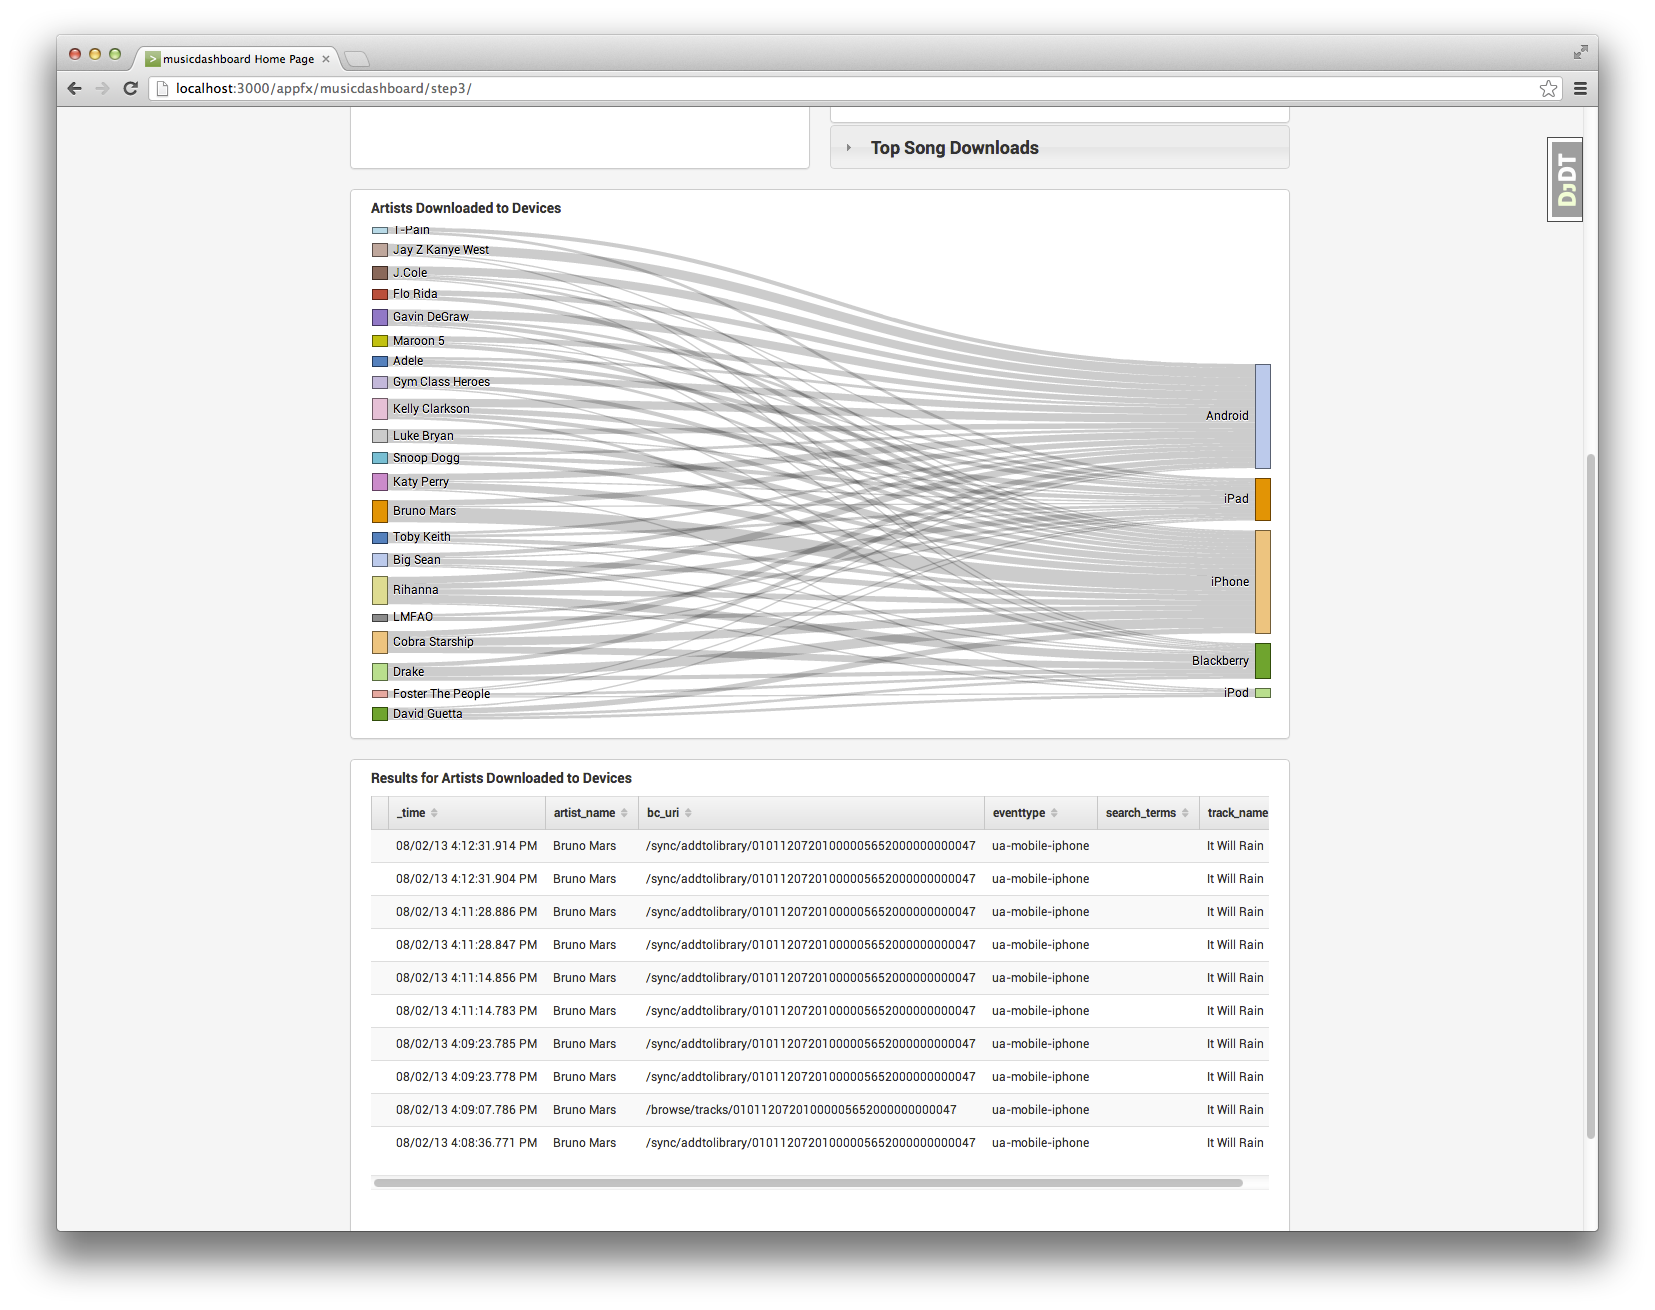
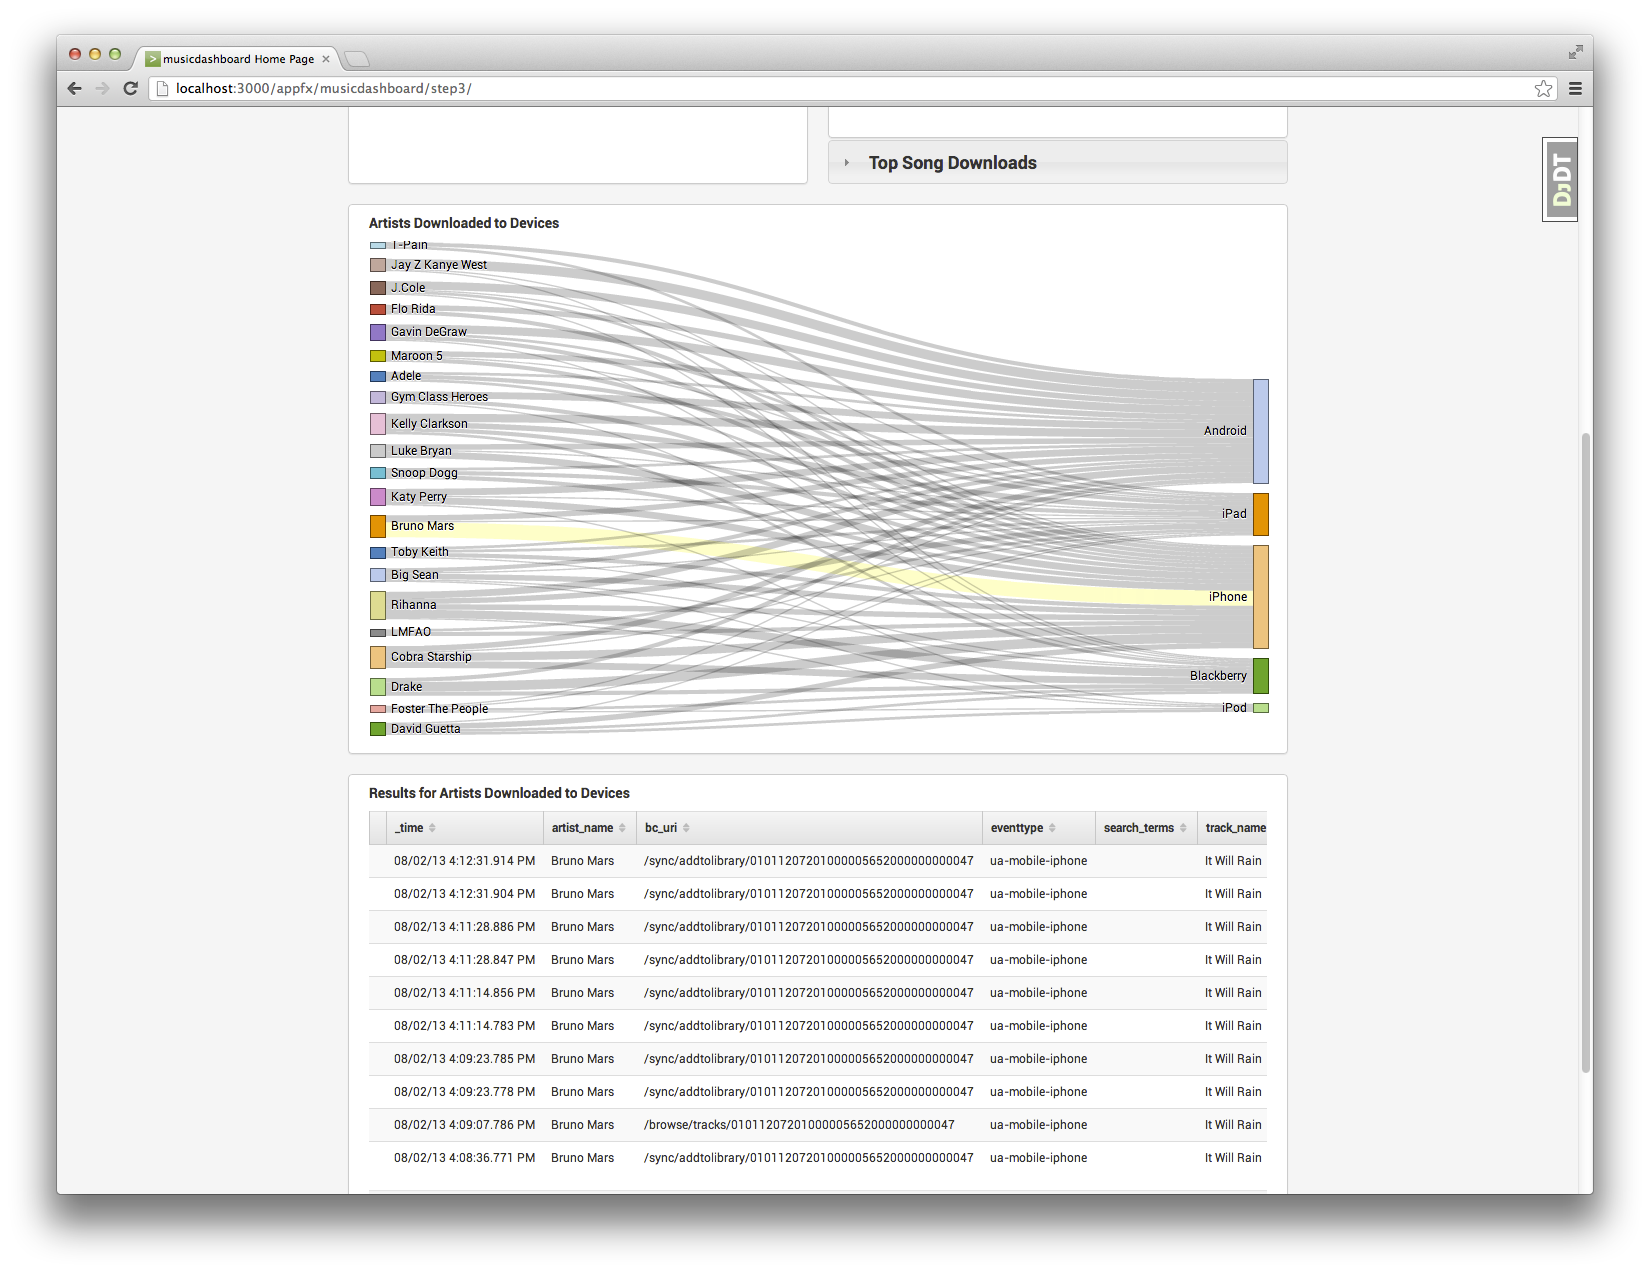
update everything to include missing style for interactivity highlighting

Changed region(s): [[0.2164, 0.1532, 0.7727, 0.9191], [0.0309, 0.0306, 0.9582, 0.1838]]

diff --git a/musicdashboard/templates/step3.html b/musicdashboard/templates/step3.html
@@ -67,6 +67,10 @@
           stroke-opacity: .5;
         }
 
+        .link.my-selected {
+            stroke: yellow;
+        }
+
         .scrollable {
             overflow-y: auto;
         }

diff --git a/musicdashboard/templates/step4.html b/musicdashboard/templates/step4.html
@@ -81,6 +81,10 @@
             overflow-y: auto;
         }
 
+        .link.my-selected {
+            stroke: yellow;
+        }
+
     </style>
 {% endblock css %}
 

diff --git a/blogpost/blogpost.md b/blogpost/blogpost.md
@@ -376,8 +376,8 @@ After having our Sankey diagram in place, it's great to see the relationships in
 
 First, we'll add a little bit of CSS to ensure the link that we click on will stay highlighted. Also, we'll add a little helper CSS to make the built-in Splunk events table scrollable. In our `<style>` tag, add this:
 
-	.link:hover {
-    	stroke-opacity: .5;
+	.link.my-selected {
+        stroke: yellow;
     }
 
     .scrollable {
